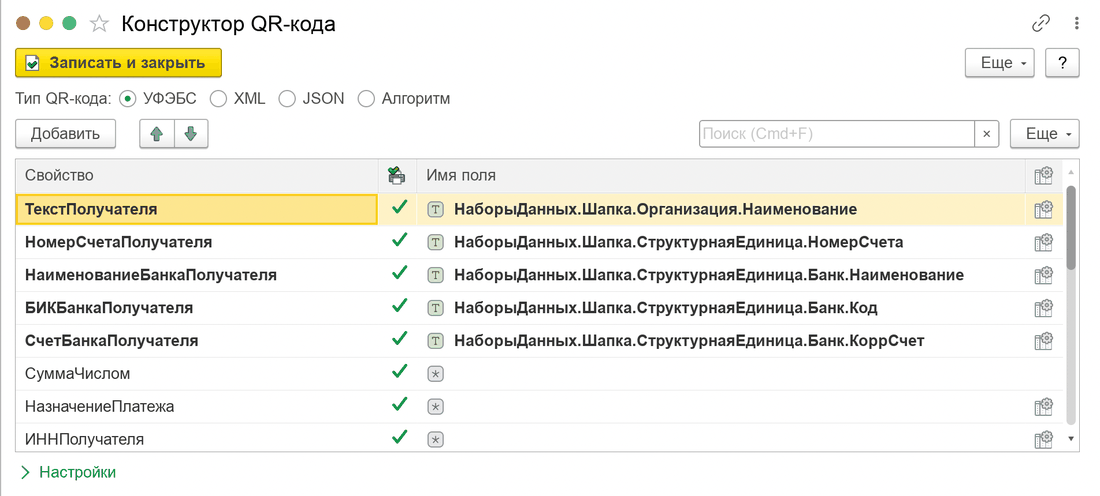
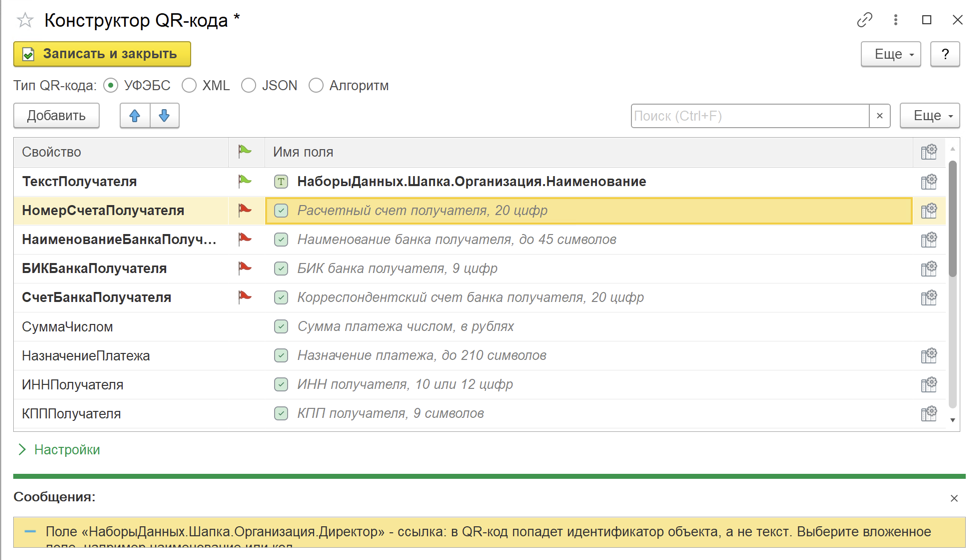
Снимок конструктора QR-кода УФЭБС: подсказки и флаги проверки

Changed region(s): [[0.0, 0.0, 1.0, 0.998], [0.9202, 0.6048, 0.9816, 0.6956], [0.8589, 0.0302, 0.8896, 0.0605]]

diff --git a/src/content/docs/guide/ch-02-21.md b/src/content/docs/guide/ch-02-21.md
@@ -54,7 +54,7 @@ QR-код УФЭБС на готовом счёте
 
 ![](/img/ch_02/90_qr_ufebs.png)
     
-Конструктор QR-кода, тип «УФЭБС»: слева свойства формата, справа поля наборов, из которых берутся значения
+Конструктор QR-кода, тип «УФЭБС»: у выбранного поля — зелёный флаг, у обязательных свойств без поля — красный, в пустых ячейках «Имя поля» — подсказки; внизу — сообщение красного флага о поле-ссылке
 
 В колонке **«Свойство»** стоит имя поля формата — по нему поле и упоминается
 дальше; в колонке **«Имя поля»** — путь к значению в дереве доступных полей.
